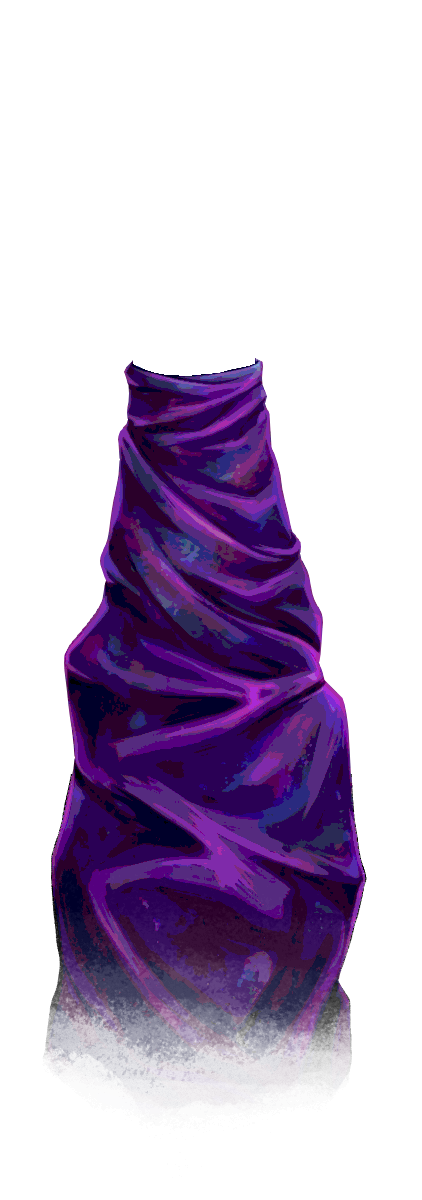
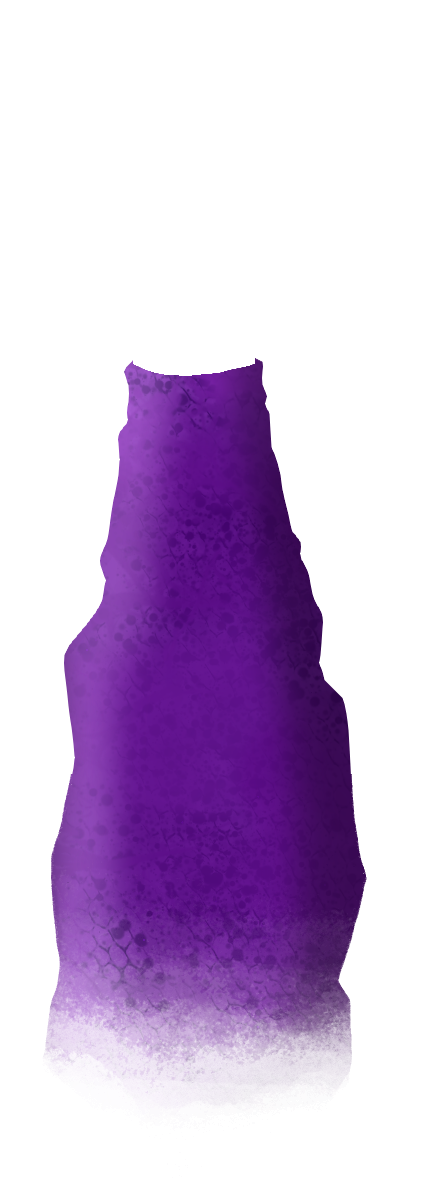
Update `Watcher` mod to v1.4.6. Refactor turn-end methods across powers and stances to include `participants` parameter, improve card variable handling, enhance multiplayer compatibility, and update BaseLib dependency to v3.1.4.

Changed region(s): [[0.0924, 0.2775, 0.8626, 0.8942]]

diff --git a/Code/Cards/Common/Halt.cs b/Code/Cards/Common/Halt.cs
@@ -1,7 +1,9 @@
-using BaseLib.Utils;
+using BaseLib.Extensions;
+using BaseLib.Utils;
 using MegaCrit.Sts2.Core.Commands;
 using MegaCrit.Sts2.Core.Entities.Cards;
 using MegaCrit.Sts2.Core.GameActions.Multiplayer;
+using MegaCrit.Sts2.Core.Localization.DynamicVars;
 using MegaCrit.Sts2.Core.ValueProps;
 using Watcher.Code.Abstract;
 using Watcher.Code.Character;
@@ -16,7 +18,7 @@ public sealed class Halt : WatcherCardModel
     public Halt() : base(0, CardType.Skill, CardRarity.Common, TargetType.Self)
     {
         WithBlock(3, 1);
-        WithVar("WrathBlock", 9, 5);
+        WithVar(new BlockVar("WrathBlock", 9, ValueProp.Move).WithUpgrade(5));
         WithStanceTip<WrathStance>();
     }
 

diff --git a/Code/Cards/Uncommon/SandsOfTime.cs b/Code/Cards/Uncommon/SandsOfTime.cs
@@ -24,12 +24,13 @@ public sealed class SandsOfTime : WatcherCardModel
         await CommonActions.CardAttack(this, cardPlay).Execute(choiceContext);
     }
 
-    public override async Task AfterFlush(PlayerChoiceContext choiceContext, Player player,
+    public override Task AfterFlush(PlayerChoiceContext choiceContext, Player player,
         IReadOnlyCollection<CardModel> flushedCards,
         IReadOnlyCollection<CardModel> retainedCards)
     {
-        if (!retainedCards.Contains(this)) return;
+        if (!retainedCards.Contains(this)) return Task.CompletedTask; 
         var currentCost = EnergyCost.GetWithModifiers(CostModifiers.Local);
         if (currentCost > 0) EnergyCost.SetThisCombat(currentCost - 1);
+        return Task.CompletedTask;
     }
 }

diff --git a/Code/Powers/EstablishmentPower.cs b/Code/Powers/EstablishmentPower.cs
@@ -1,5 +1,6 @@
 using MegaCrit.Sts2.Core.Combat;
 using MegaCrit.Sts2.Core.Entities.Cards;
+using MegaCrit.Sts2.Core.Entities.Creatures;
 using MegaCrit.Sts2.Core.Entities.Players;
 using MegaCrit.Sts2.Core.Entities.Powers;
 using MegaCrit.Sts2.Core.GameActions.Multiplayer;
@@ -31,7 +32,7 @@ public sealed class EstablishmentPower : WatcherPowerModel
         return Task.CompletedTask;
     }
 
-    public override async Task BeforeTurnEnd(PlayerChoiceContext choiceContext, CombatSide side)
+    public override async Task BeforeSideTurnEnd(PlayerChoiceContext choiceContext, CombatSide side, IEnumerable<Creature> participants)
     {
         if (side != Owner.Side || Owner.Player == null) return;
         if (Owner.GetPower<RetainHandPower>() == null) return;

diff --git a/Code/Powers/LikeWaterPower.cs b/Code/Powers/LikeWaterPower.cs
@@ -1,5 +1,6 @@
 using MegaCrit.Sts2.Core.Combat;
 using MegaCrit.Sts2.Core.Commands;
+using MegaCrit.Sts2.Core.Entities.Creatures;
 using MegaCrit.Sts2.Core.Entities.Powers;
 using MegaCrit.Sts2.Core.GameActions.Multiplayer;
 using MegaCrit.Sts2.Core.HoverTips;
@@ -23,7 +24,7 @@ public class LikeWaterPower : WatcherPowerModel
     ];
 
 
-    public override async Task AfterTurnEnd(PlayerChoiceContext choiceContext, CombatSide side)
+    public override async Task AfterSideTurnEnd(PlayerChoiceContext choiceContext, CombatSide side, IEnumerable<Creature> participants)
     {
         if (Owner.Player?.Creature.Side != side) return;
         var isInCalm = Owner.Player.IsInWatcherStance<CalmStance>();

diff --git a/Code/Powers/OmegaPower.cs b/Code/Powers/OmegaPower.cs
@@ -1,5 +1,6 @@
 using MegaCrit.Sts2.Core.Combat;
 using MegaCrit.Sts2.Core.Commands;
+using MegaCrit.Sts2.Core.Entities.Creatures;
 using MegaCrit.Sts2.Core.Entities.Powers;
 using MegaCrit.Sts2.Core.GameActions.Multiplayer;
 using MegaCrit.Sts2.Core.ValueProps;
@@ -12,7 +13,7 @@ public class OmegaPower : WatcherPowerModel
     public override PowerType Type => PowerType.Buff;
     public override PowerStackType StackType => PowerStackType.Counter;
 
-    public override async Task AfterTurnEnd(PlayerChoiceContext choiceContext, CombatSide side)
+    public override async Task AfterSideTurnEnd(PlayerChoiceContext choiceContext, CombatSide side, IEnumerable<Creature> participants)
     {
         // Only trigger at end of owner's turn
         if (Owner.Side != side)

diff --git a/Code/Powers/StudyPower.cs b/Code/Powers/StudyPower.cs
@@ -1,5 +1,6 @@
 using MegaCrit.Sts2.Core.Combat;
 using MegaCrit.Sts2.Core.Entities.Cards;
+using MegaCrit.Sts2.Core.Entities.Creatures;
 using MegaCrit.Sts2.Core.Entities.Powers;
 using MegaCrit.Sts2.Core.GameActions.Multiplayer;
 using MegaCrit.Sts2.Core.HoverTips;
@@ -18,7 +19,7 @@ public class StudyPower : WatcherPowerModel
 
     protected override IEnumerable<IHoverTip> ExtraHoverTips => [HoverTipFactory.FromCard<Insight>()];
 
-    public override async Task AfterTurnEnd(PlayerChoiceContext choiceContext, CombatSide side)
+    public override async Task AfterSideTurnEnd(PlayerChoiceContext choiceContext, CombatSide side, IEnumerable<Creature> participants)
     {
         if (Owner.Player == null || Owner.Player?.Creature.Side != side) return;
         await WatcherCmd.GiveCards<Insight>(Owner.Player, Amount, PileType.Draw, CardPilePosition.Random,

diff --git a/Code/Stances/DivinityStance.cs b/Code/Stances/DivinityStance.cs
@@ -42,8 +42,7 @@ public class DivinityStance : WatcherStanceModel
         return 1m;
     }
 
-    public override async Task BeforeSideTurnStart(PlayerChoiceContext ctx, CombatSide side,
-        ICombatState combatState)
+    public override async Task BeforeSideTurnStart(PlayerChoiceContext ctx, CombatSide side, IReadOnlyList<Creature> participants, ICombatState combatState)
     {
         if (side != Owner.Creature.Side) return;
         await StanceCmd.ExitStance(ctx, Owner, null);

diff --git a/Code/Powers/PlatedArmorPower.cs b/Code/Powers/PlatedArmorPower.cs
@@ -27,7 +27,7 @@ public class PlatedArmorPower : WatcherPowerModel
         await PowerCmd.Decrement(this);
     }
 
-    public override async Task BeforeTurnEnd(PlayerChoiceContext choiceContext, CombatSide side)
+    public override async Task BeforeSideTurnEnd(PlayerChoiceContext choiceContext, CombatSide side, IEnumerable<Creature> participants)
     {
         if (Owner.Player is { PlayerCombatState: not null } && side != Owner.Side)
             return;

diff --git a/Code/Powers/WaveOfTheHandPower.cs b/Code/Powers/WaveOfTheHandPower.cs
@@ -39,7 +39,7 @@ public sealed class WaveOfTheHandPower : WatcherPowerModel
     }
 
 
-    public override async Task AfterTurnEnd(PlayerChoiceContext choiceContext, CombatSide side)
+    public override async Task AfterSideTurnEnd(PlayerChoiceContext choiceContext, CombatSide side, IEnumerable<Creature> participants)
     {
         if (Owner.IsAlive) RemoveInternal();
         await Task.CompletedTask;

diff --git a/Code/Patches/NAudioManagerPatch.cs b/Code/Patches/NAudioManagerPatch.cs
@@ -20,6 +20,7 @@ internal class NAudioManagerPatch
 
         var settings = SaveManager.Instance.SettingsSave;
         // Todo check if this is right sound before release
+        // use ModAudio
         AudioStreamPlayer2D audioPlayer = new()
         {
             Bus = "SFX",